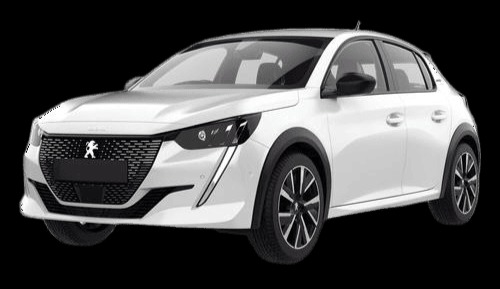
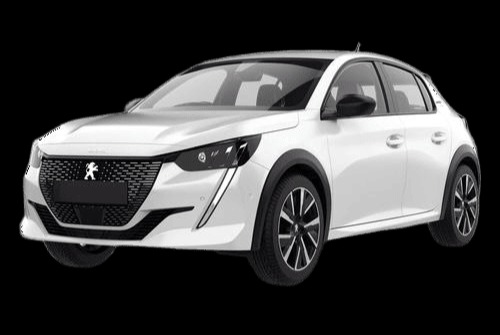
fix

Changed region(s): [[0.03, 0.0623, 0.96, 0.9343], [0.57, 0.436, 0.63, 0.4671]]

diff --git a/resources/views/pages/cars/cars.blade.php b/resources/views/pages/cars/cars.blade.php
@@ -15,13 +15,18 @@
 .cars-pagination>nav>div>div>p {
     color: #ffffff !important;
 }
+
+.car-image {
+    min-height: 235px;
+    max-height: 235px;
+}
 </style>
 <div class="container py-5">
     <div class="row g-4">
         @foreach($cars as $car)
         <div class="col-md-6 col-lg-4">
             <div class="card h-100 shadow bg-light">
-                <img src="{{ $car->image_url }}" class="card-img-top" alt="{{ $car->name }}">
+                <img src="{{ $car->image_url }}" class="card-img-top car-image" alt="{{ $car->name }}">
                 <div class="card-body">
                     <h3 class="h5">{{ $car->name }} <span class="text-muted fs-6">(or
                             similar)</span></h3>
